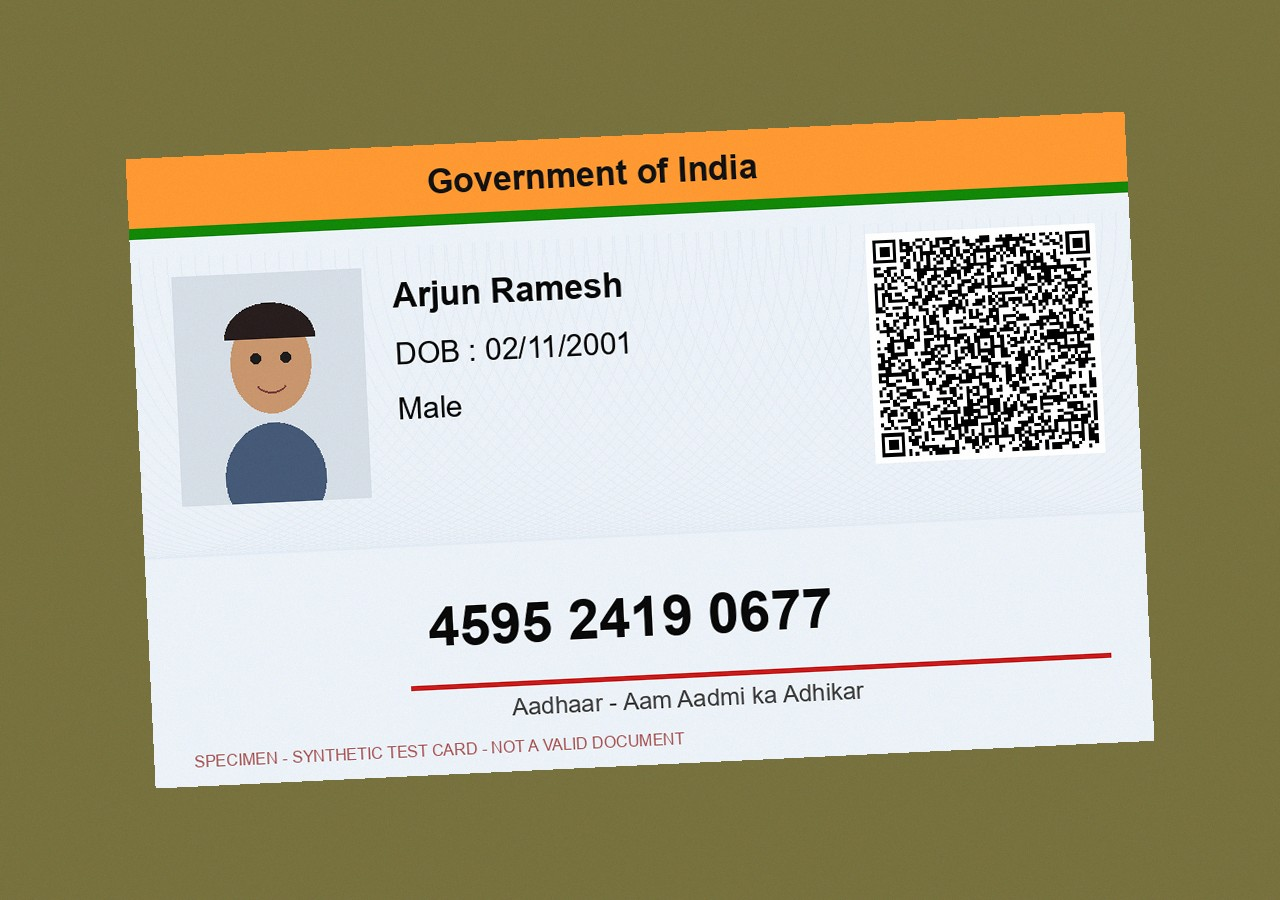
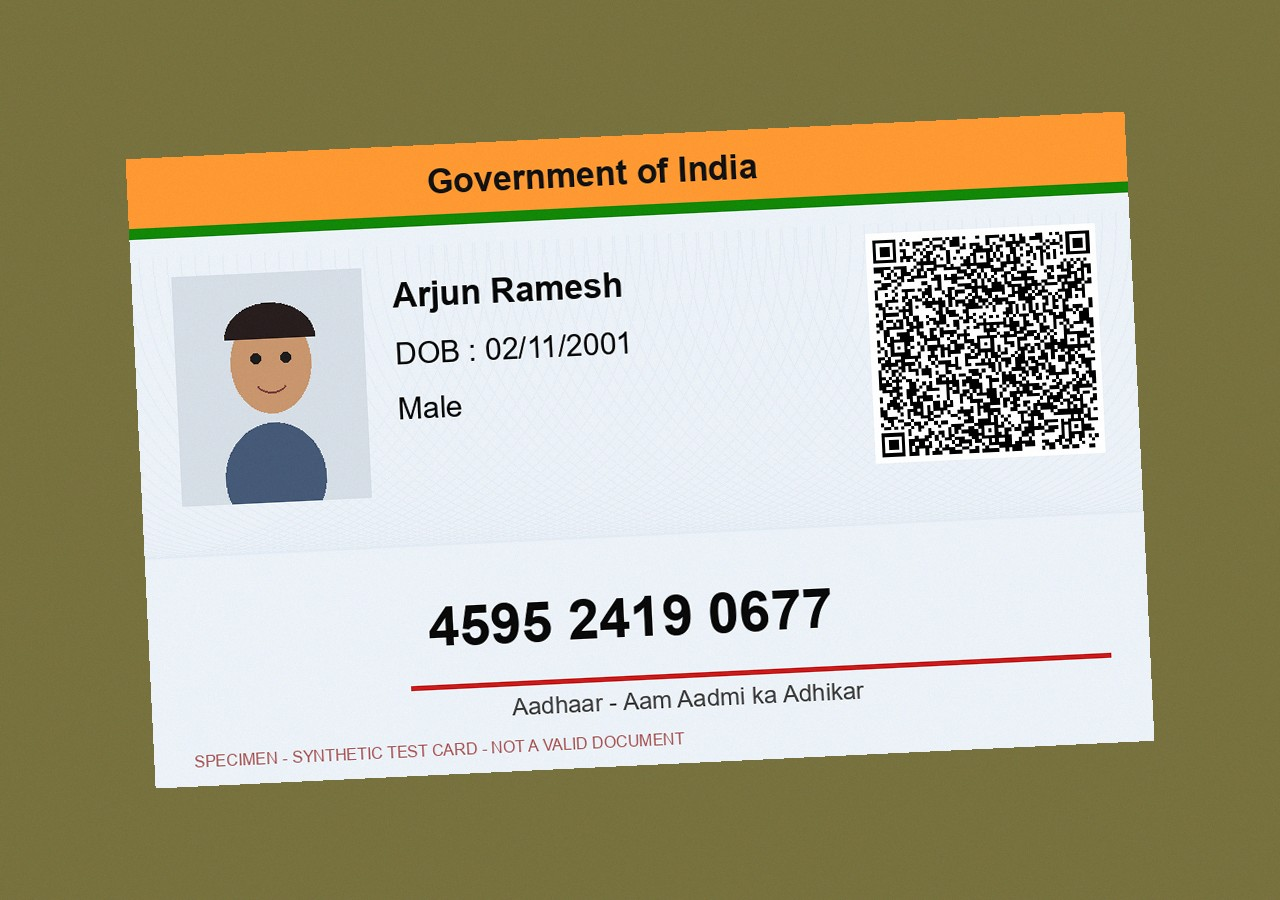
document dev cert, organizer key and pinned deps in setup
Adds the make_dev_cert step, the Windows Tesseract route, the --keep-db
caveat, ORGANIZER_KEY, the async status endpoint, and why numpy/Pillow
are pinned exactly.

Also warns that each machine's dev key is different: pointing
UIDAI_CERT_PATH at a fresh cert without re-running generate_samples
makes every committed Aadhaar sample fail verification (checked:
signature_verified comes back False).

Changed region(s): [[0.6875, 0.2489, 0.875, 0.5289]]

diff --git a/README.md b/README.md
@@ -42,16 +42,22 @@ Each fraud case is caught by the detector designed for it: QR mismatch, JPEG gho
 
 ```bash
 # system deps: Tesseract + zbar
-#   macOS:  brew install tesseract zbar
-#   Ubuntu: sudo apt install tesseract-ocr libzbar0
+#   macOS:   brew install tesseract zbar
+#   Ubuntu:  sudo apt install tesseract-ocr libzbar0
+#   Windows: winget install UB-Mannheim.TesseractOCR, then add
+#            C:\Program Files\Tesseract-OCR to PATH. If winget stalls, the
+#            same installer is at github.com/UB-Mannheim/tesseract/releases.
+#            zbar needs nothing: the pyzbar wheel bundles libzbar.
 python -m venv .venv && source .venv/bin/activate
 pip install -r requirements.txt
 cp .env.example .env
 python scripts/download_models.py        # offline face matching (optional)
+python scripts/make_dev_cert.py          # dev key so QR signatures actually verify
+#   then set UIDAI_CERT_PATH=dev_certs/uidai_dev_cert.pem in .env
 
 python scripts/generate_samples.py       # 17 labelled specimen cards
 python scripts/evaluate.py --keep-db     # measure + load them into the dashboard
-pytest -q                                # 18 unit tests
+pytest -q                                # 19 unit tests
 
 uvicorn app.api:app --reload
 # dashboard      http://localhost:8000/
@@ -60,6 +66,32 @@ uvicorn app.api:app --reload
 ```
 
 Or run `docker compose up --build`.
+
+**`--keep-db` appends.** Re-running it against a database that already holds these
+cases makes every genuine card look like a reused ID, and the score collapses. Delete
+`data/` first for a clean measurement.
+
+**Why the dev certificate.** The Secure QR is signed by UIDAI, and offline there is no
+way to produce a UIDAI-signed payload, so the sample generator would otherwise emit an
+unsigned one and the signature check — the strongest check in the pipeline — would never
+run. `make_dev_cert.py` creates a self-signed key that the generator signs with, so the
+real verification path is exercised end to end. The key is git-ignored. In production
+`UIDAI_CERT_PATH` points at UIDAI's certificate and these dev payloads correctly stop
+verifying.
+
+> **Run `make_dev_cert.py` *before* `generate_samples.py`, and re-run the generator
+> whenever you create a new key.** Each machine's key is different, so the committed
+> specimen cards were signed with someone else's. Pointing `UIDAI_CERT_PATH` at your own
+> cert without regenerating them makes every Aadhaar sample fail signature verification
+> and show up as a critical "not signed by UIDAI" — which is correct behaviour reading a
+> genuinely foreign signature, but it is not what you want mid-demo. Leaving
+> `UIDAI_CERT_PATH` empty is the safe fallback: the check reports "not checked" and
+> nothing is penalised.
+
+**Pinned dependencies.** `numpy` and `Pillow` are pinned exactly because they decide the
+exact bytes `generate_samples.py` writes, and a different version re-encodes all 17 cards
+and can shift OCR results. `opencv-python-headless` is capped below 5.0, which removed
+`cv2.CascadeClassifier`. Bump any of them deliberately and re-run `evaluate.py`.
 
 **Face checks on samples:** the generated cards use cartoon portraits, so face checks show as "not checked". To demo face matching, run `python scripts/generate_samples.py --faces ./my_faces/` with photos of your teammates (with their consent). The selfie cases will then run the full face match and the face-reuse search.
 
@@ -100,6 +132,7 @@ Every stage emits `Signal(name, category, severity, score, reason, weight)`. Fus
 
 - **Three soft exits before any rejection.** A bad photo leads to RESUBMIT, and any doubt leads to NEEDS_REVIEW. REJECTED requires a DOB read with at least 85% confidence *and* no tamper, duplicate, or identity concerns.
 - **A checksum failure is a warning, not a rejection.** A single misread digit also fails Verhoeff.
+- **A field that couldn't be read is not evidence of tampering.** Tesseract read one specimen's "Arjun Ramesh" as "Cyl", and comparing that against the QR name looked exactly like an edited card. Below a confidence floor the printed name counts as unread, and a UIDAI-signed QR name outranks a low-confidence OCR read.
 - **Indian names.** Initials ("R. Arjun" matches "Arjun Ramesh"), token order, dropped suffixes (Devi, Kumar), and transliteration variants (Mohd/Mohammed, Laxmi/Lakshmi) are all handled. A lone shared surname never counts as a match.
 - **Year-only Aadhaar.** If the person is eligible at both possible ages, they're approved. If it's borderline, the case goes to review, never to rejection.
 - **Returning participants.** The same ID and same person at another event is normal. Only the same ID under a *different* name is flagged.
@@ -132,6 +165,7 @@ The LLM only (a) fills fields the parser missed, where every value must appear i
 - Stored images are **masked**: the first 8 Aadhaar digits are blacked out on the card *and* on the ELA heatmap, and old-format QR codes (which hold the full number) are blurred. Raw uploads are kept only if `KEEP_RAW_IMAGES=true`.
 - Consent is required on every call. `DELETE /v1/verifications/{id}` erases the record, fingerprints, face embedding, and images.
 - Every decision and override is written to an audit log.
+- **Set `ORGANIZER_KEY` before loading real data.** It requires an `X-Organizer-Key` header on the review queue, case detail, stored images, metrics, and audit log — the endpoints that expose applicants' names, emails, masked IDs, and ID photographs. Left empty those endpoints are open, which is fine for a laptop demo and is not acceptable with participants' documents in the database. `API_KEY` separately guards `/v1/verify`.
 
 ---
 
@@ -146,7 +180,7 @@ app/
   pipeline/               quality · extraction · aadhaar_qr · validators · tamper
                           duplicates · identity · rules · fusion · orchestrator
   static/                 dashboard + participant registration form (no build step)
-scripts/                  generate_samples · evaluate · download_models
+scripts/                  generate_samples · evaluate · download_models · make_dev_cert
 tests/                    unit tests
 docs/                     INTEGRATION.md · iam-policy.json
 ```
@@ -158,8 +192,10 @@ docs/                     INTEGRATION.md · iam-policy.json
 1. Get Hackingly's anonymised samples. Add them to a manifest (same format as `samples/manifest.json`) and run `evaluate.py`.
 2. Tune `BLUR_THRESHOLD`, `RECAPTURE_PEAK`, and `APPROVE_THRESHOLD` until genuine false rejects stay at 0.
 3. Switch to `OCR_PROVIDER=textract` and wire in their real DOB function.
-4. Add teammates' faces (with consent) to demo face match and face reuse.
-5. Freeze features two hours before judging and rehearse the demo three times.
+4. Point `UIDAI_CERT_PATH` at UIDAI's real certificate instead of the dev one, and
+   set `ORGANIZER_KEY` before any real participant data goes in.
+5. Add teammates' faces (with consent) to demo face match and face reuse.
+6. Freeze features two hours before judging and rehearse the demo three times.
 
 ## 3-minute demo
 
@@ -171,7 +207,8 @@ docs/                     INTEGRATION.md · iam-policy.json
    - *Sneha Kulkarni:* "Also used by Priya Sharma."
    - Click **Approve** on one case to show the override landing in the audit log.
 4. **Metrics:** 0 genuine participants rejected, 9/9 frauds stopped, and a human always sees fraud.
-5. **Integration:** one API call, zero changes to the Textract pipeline, and webhooks.
+5. **Integration:** one API call, zero changes to the Textract pipeline, and webhooks
+   (or `async_mode=true` plus `GET /v1/verifications/{id}/status` to poll).
 6. **Roadmap:** DigiLocker-verified documents, Rekognition Face Liveness, and threshold learning from organizer overrides.
 
 ### Likely judge questions
